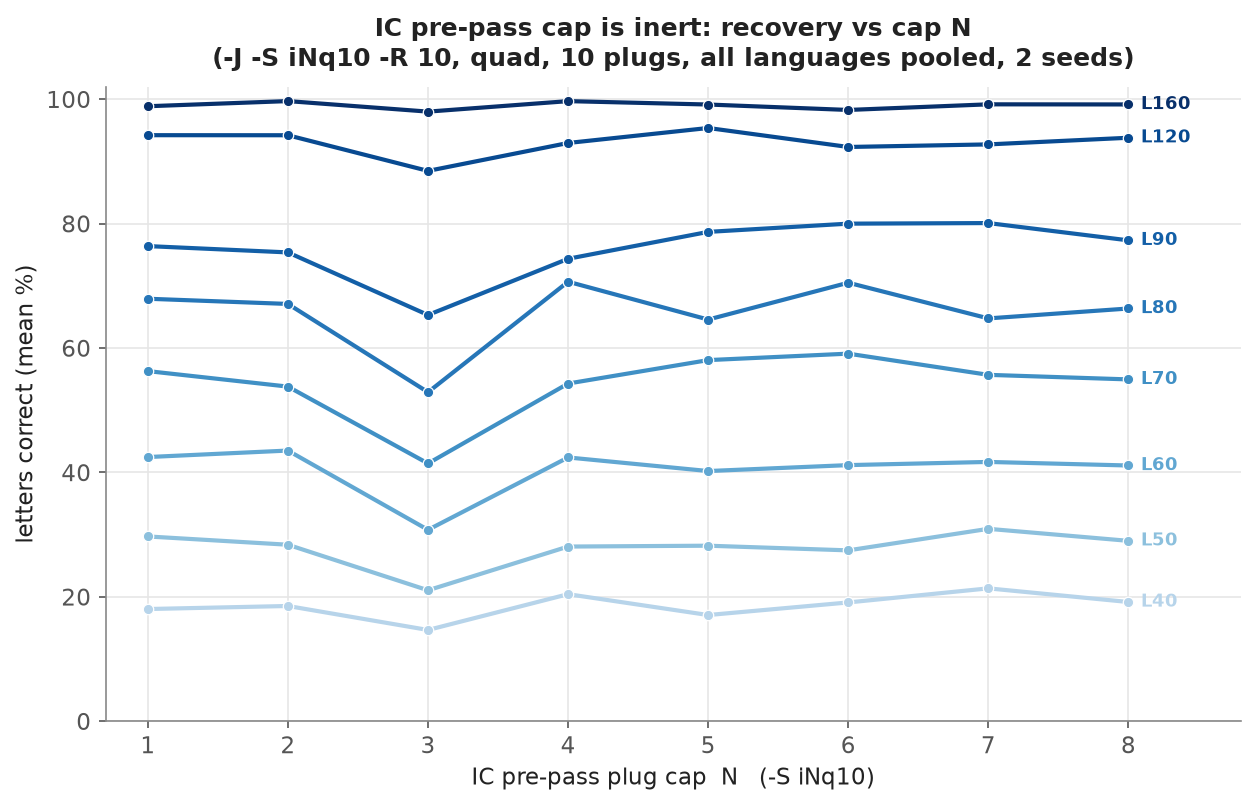
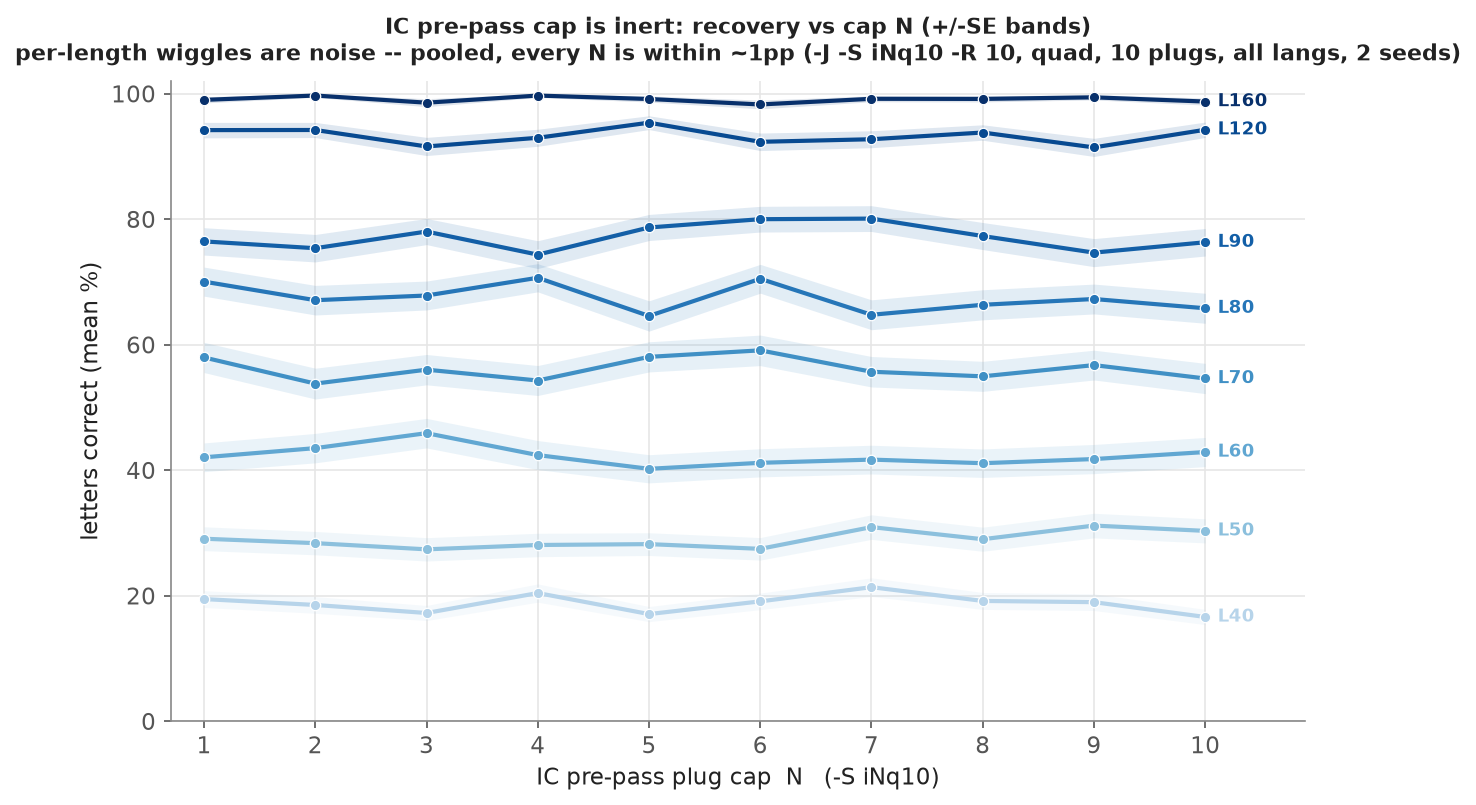
ic_cap_sweep: add +/-SE bands, extend to N=1..10
The unbanded per-length lines read as if some caps (esp. odd N / i3) were
worse, but that is sampling noise: pooled over all langs+seeds every N is
within ~1pp (SE ~0.86). Add +/-SE bands so the flatness is honest and the
per-length wiggles are visibly within noise, and extend the sweep to N=10
now that i9/i10 exist.

Claude-Session: https://claude.ai/code/session_014GftopEhYTR7xamwfhnPqt

diff --git a/eval/plot_results.py b/eval/plot_results.py
@@ -250,23 +250,34 @@ fig.savefig(os.path.join(OUT, "equal_restart_by_language.png"), bbox_inches="tig
 plt.close(fig)
 print("wrote equal_restart_by_language.png")
 
-# 11. IC pre-pass cap sweep: recovery vs N for -J -S iNq10 -R 10, N=1..8.
+# 11. IC pre-pass cap sweep: recovery vs N for -J -S iNq10 -R 10, N=1..10.
 # Ordered magnitude (message length) -> single-hue sequential ramp, light->dark;
 # lines are flat and vertically separated by length, so direct end-labels
 # (no legend). All four languages pooled (the effect is language-independent);
-# compute is flat across N (~5%), so this is a matched-compute sweep.
+# compute is flat across N (~5%), so this is a matched-compute sweep. Each line
+# carries a +/-SE band: the bands overlap across N, so the per-length wiggles
+# are sampling noise, not a real cap effect (pooled, every N is within ~1pp).
+import math as _m11
 IC_LENS = [40, 50, 60, 70, 80, 90, 120, 160]
-IC_NS = list(range(1, 9))
+IC_NS = list(range(1, 11))
 ic = defaultdict(list)
 for r in rows:
     cl = r["config_label"]
-    if len(cl) > 1 and cl[0] == "i" and cl[1:2].isdigit() and cl.endswith("q10.R10.J"):
-        ic[(int(cl[1]), r["length"])].append(r["pct"])
+    if len(cl) > 1 and cl[0] == "i" and cl[1:].split("q")[0].isdigit() \
+            and cl.endswith("q10.R10.J"):
+        ic[(int(cl[1:].split("q")[0]), r["length"])].append(r["pct"])
 ramp = [plt.cm.Blues(v) for v in
         [0.30, 0.42, 0.53, 0.63, 0.73, 0.82, 0.90, 1.0]]
 fig, ax = plt.subplots(figsize=(8.5, 5.5))
 for L, color in zip(IC_LENS, ramp):
-    ys = [sum(ic[(N, L)]) / len(ic[(N, L)]) for N in IC_NS]
+    ys, ses = [], []
+    for N in IC_NS:
+        v = ic[(N, L)]
+        mu = sum(v) / len(v)
+        ys.append(mu)
+        ses.append(_m11.sqrt(sum((x - mu) ** 2 for x in v) / (len(v) - 1)) / _m11.sqrt(len(v)))
+    ax.fill_between(IC_NS, [y - s for y, s in zip(ys, ses)],
+                    [y + s for y, s in zip(ys, ses)], color=color, alpha=0.13, linewidth=0)
     ax.plot(IC_NS, ys, "-o", color=color, lw=2, ms=5,
             markeredgecolor="white", markeredgewidth=0.6)
     ax.annotate(f"L{L}", (IC_NS[-1], ys[-1]), xytext=(6, 0),
@@ -274,11 +285,12 @@ for L, color in zip(IC_LENS, ramp):
                 color=color, fontweight="bold")
 ax.set_xlabel("IC pre-pass plug cap  N   (-S iNq10)")
 ax.set_ylabel("letters correct (mean %)")
-ax.set_title("IC pre-pass cap is inert: recovery vs cap N\n"
-             "(-J -S iNq10 -R 10, quad, 10 plugs, all languages pooled, 2 seeds)",
-             fontsize=12, fontweight="bold", pad=10)
+ax.set_title("IC pre-pass cap is inert: recovery vs cap N (+/-SE bands)\n"
+             "per-length wiggles are noise -- pooled, every N is within ~1pp "
+             "(-J -S iNq10 -R 10, quad, 10 plugs, all langs, 2 seeds)",
+             fontsize=10.5, fontweight="bold", pad=10)
 ax.set_xticks(IC_NS)
-ax.set_xlim(0.7, 8.8)
+ax.set_xlim(0.7, 10.9)
 ax.set_ylim(0, 102)
 ax.margins(x=0.05)
 fig.tight_layout()
